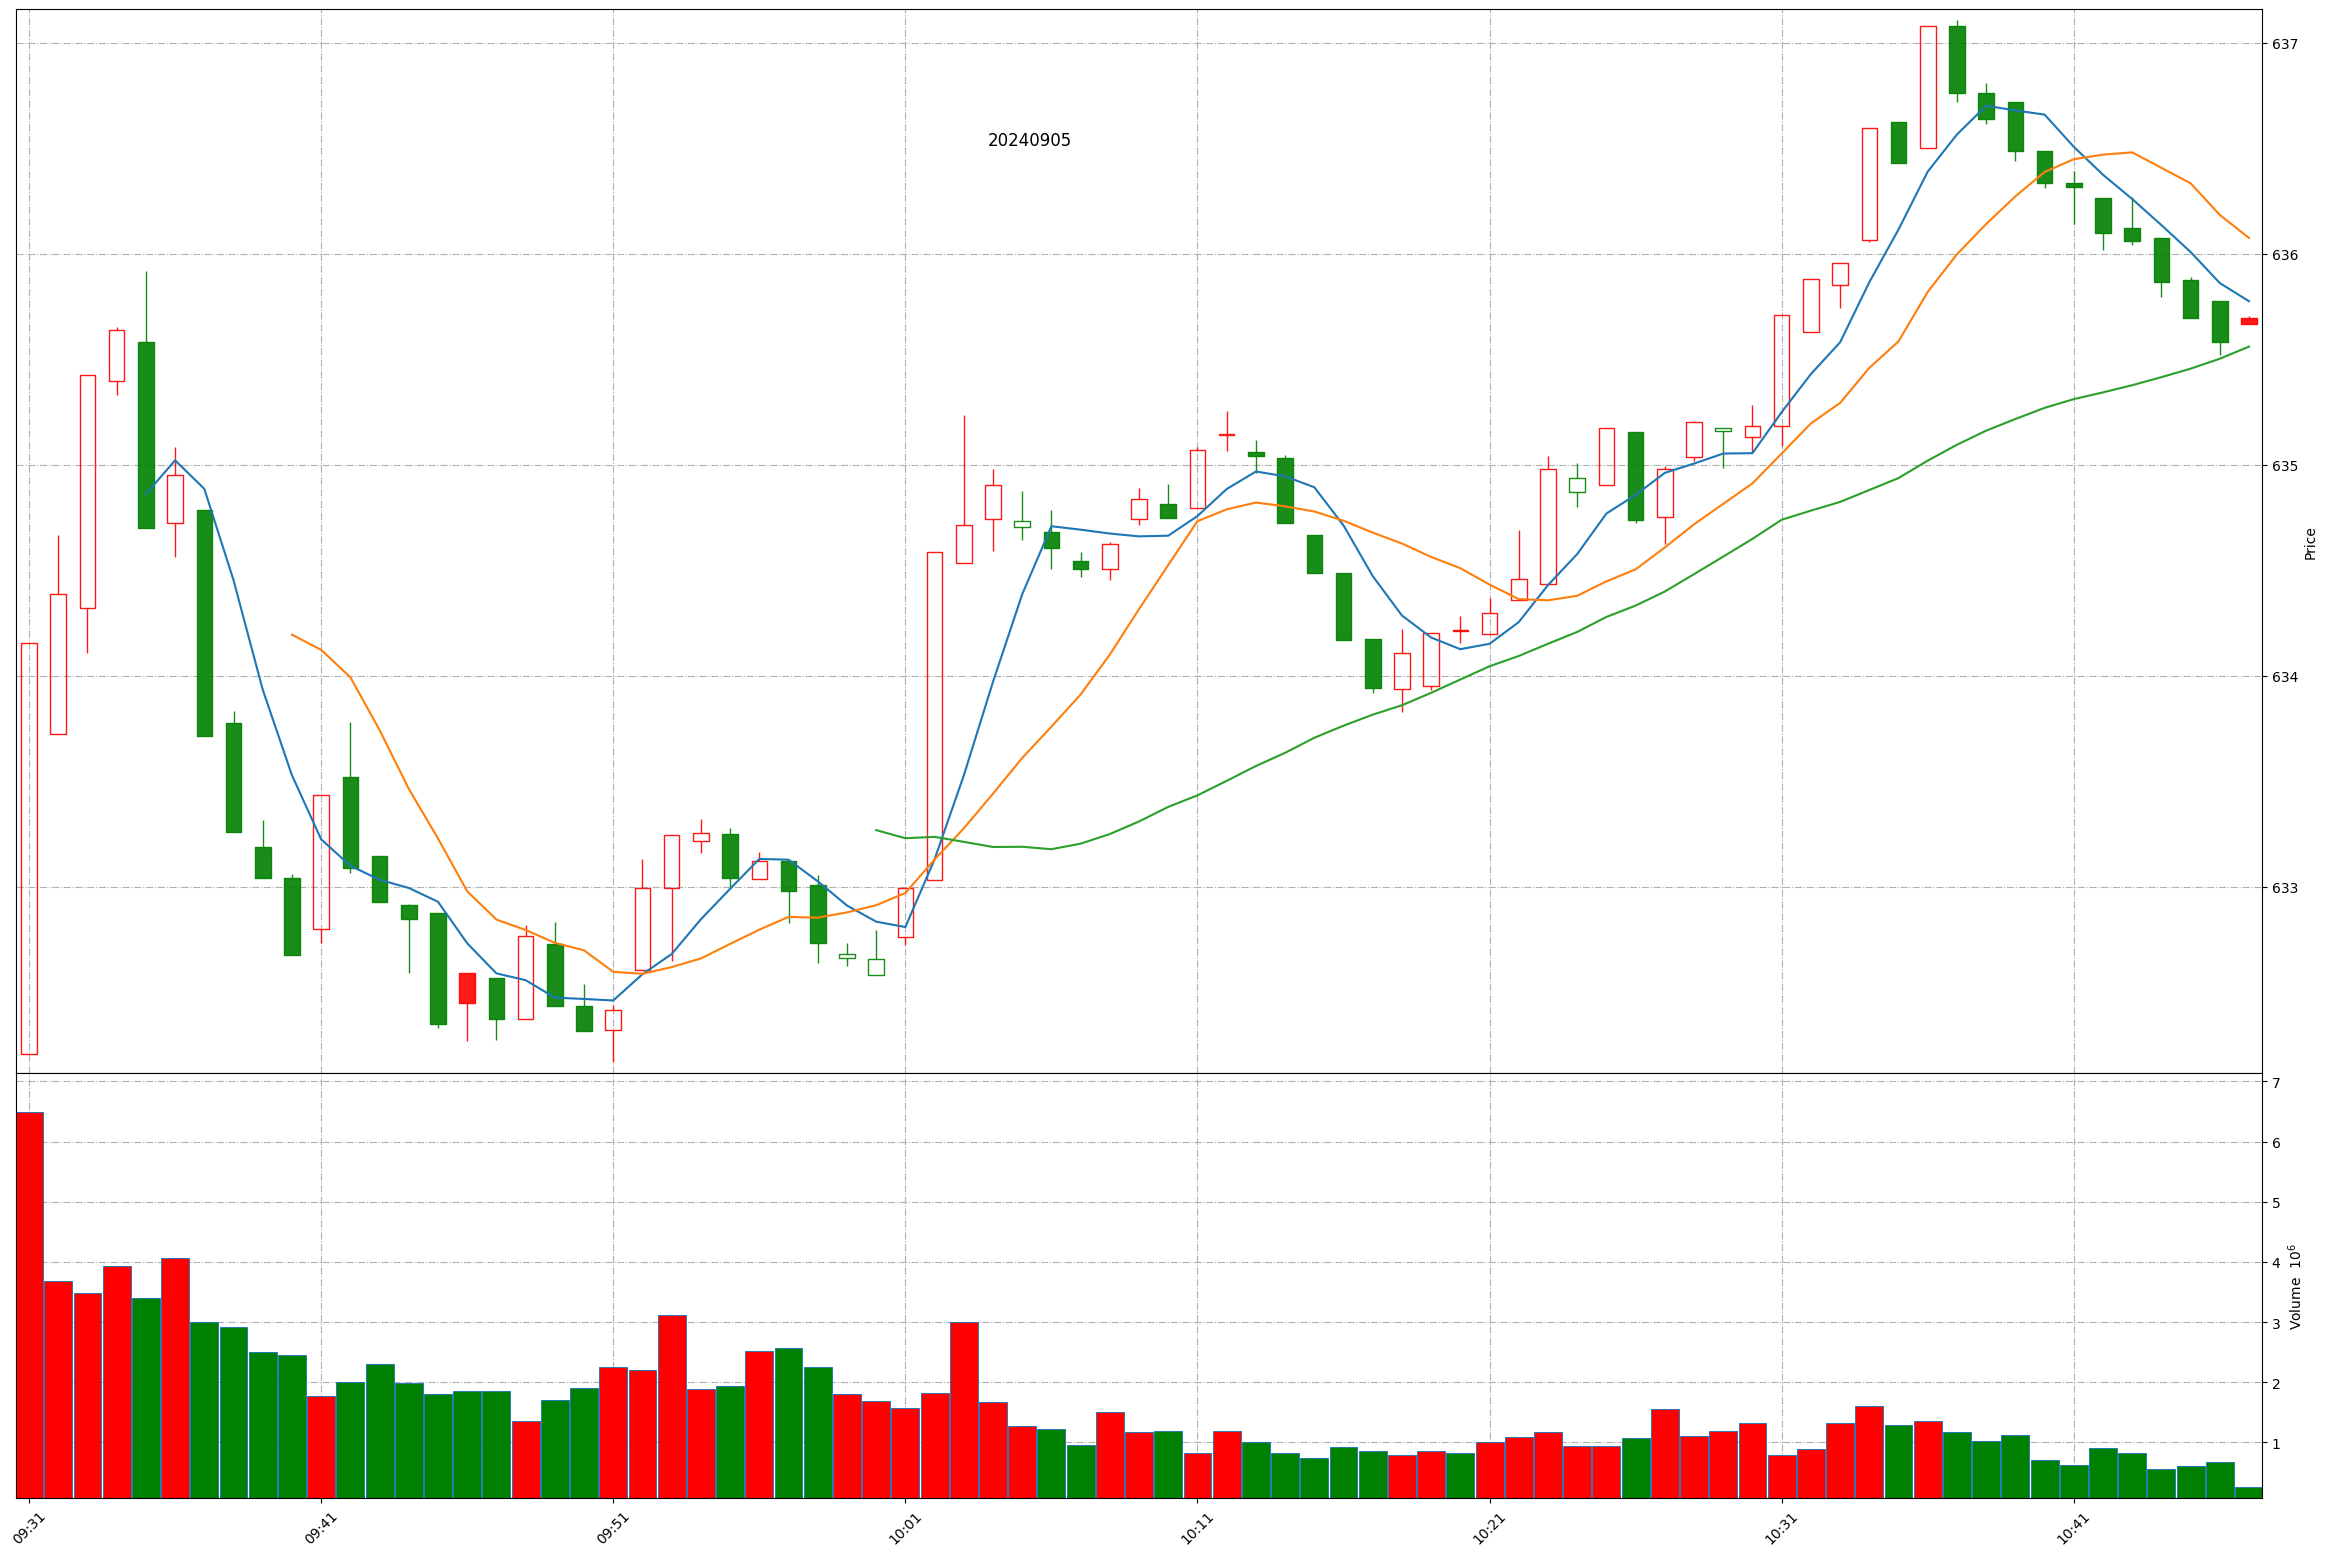
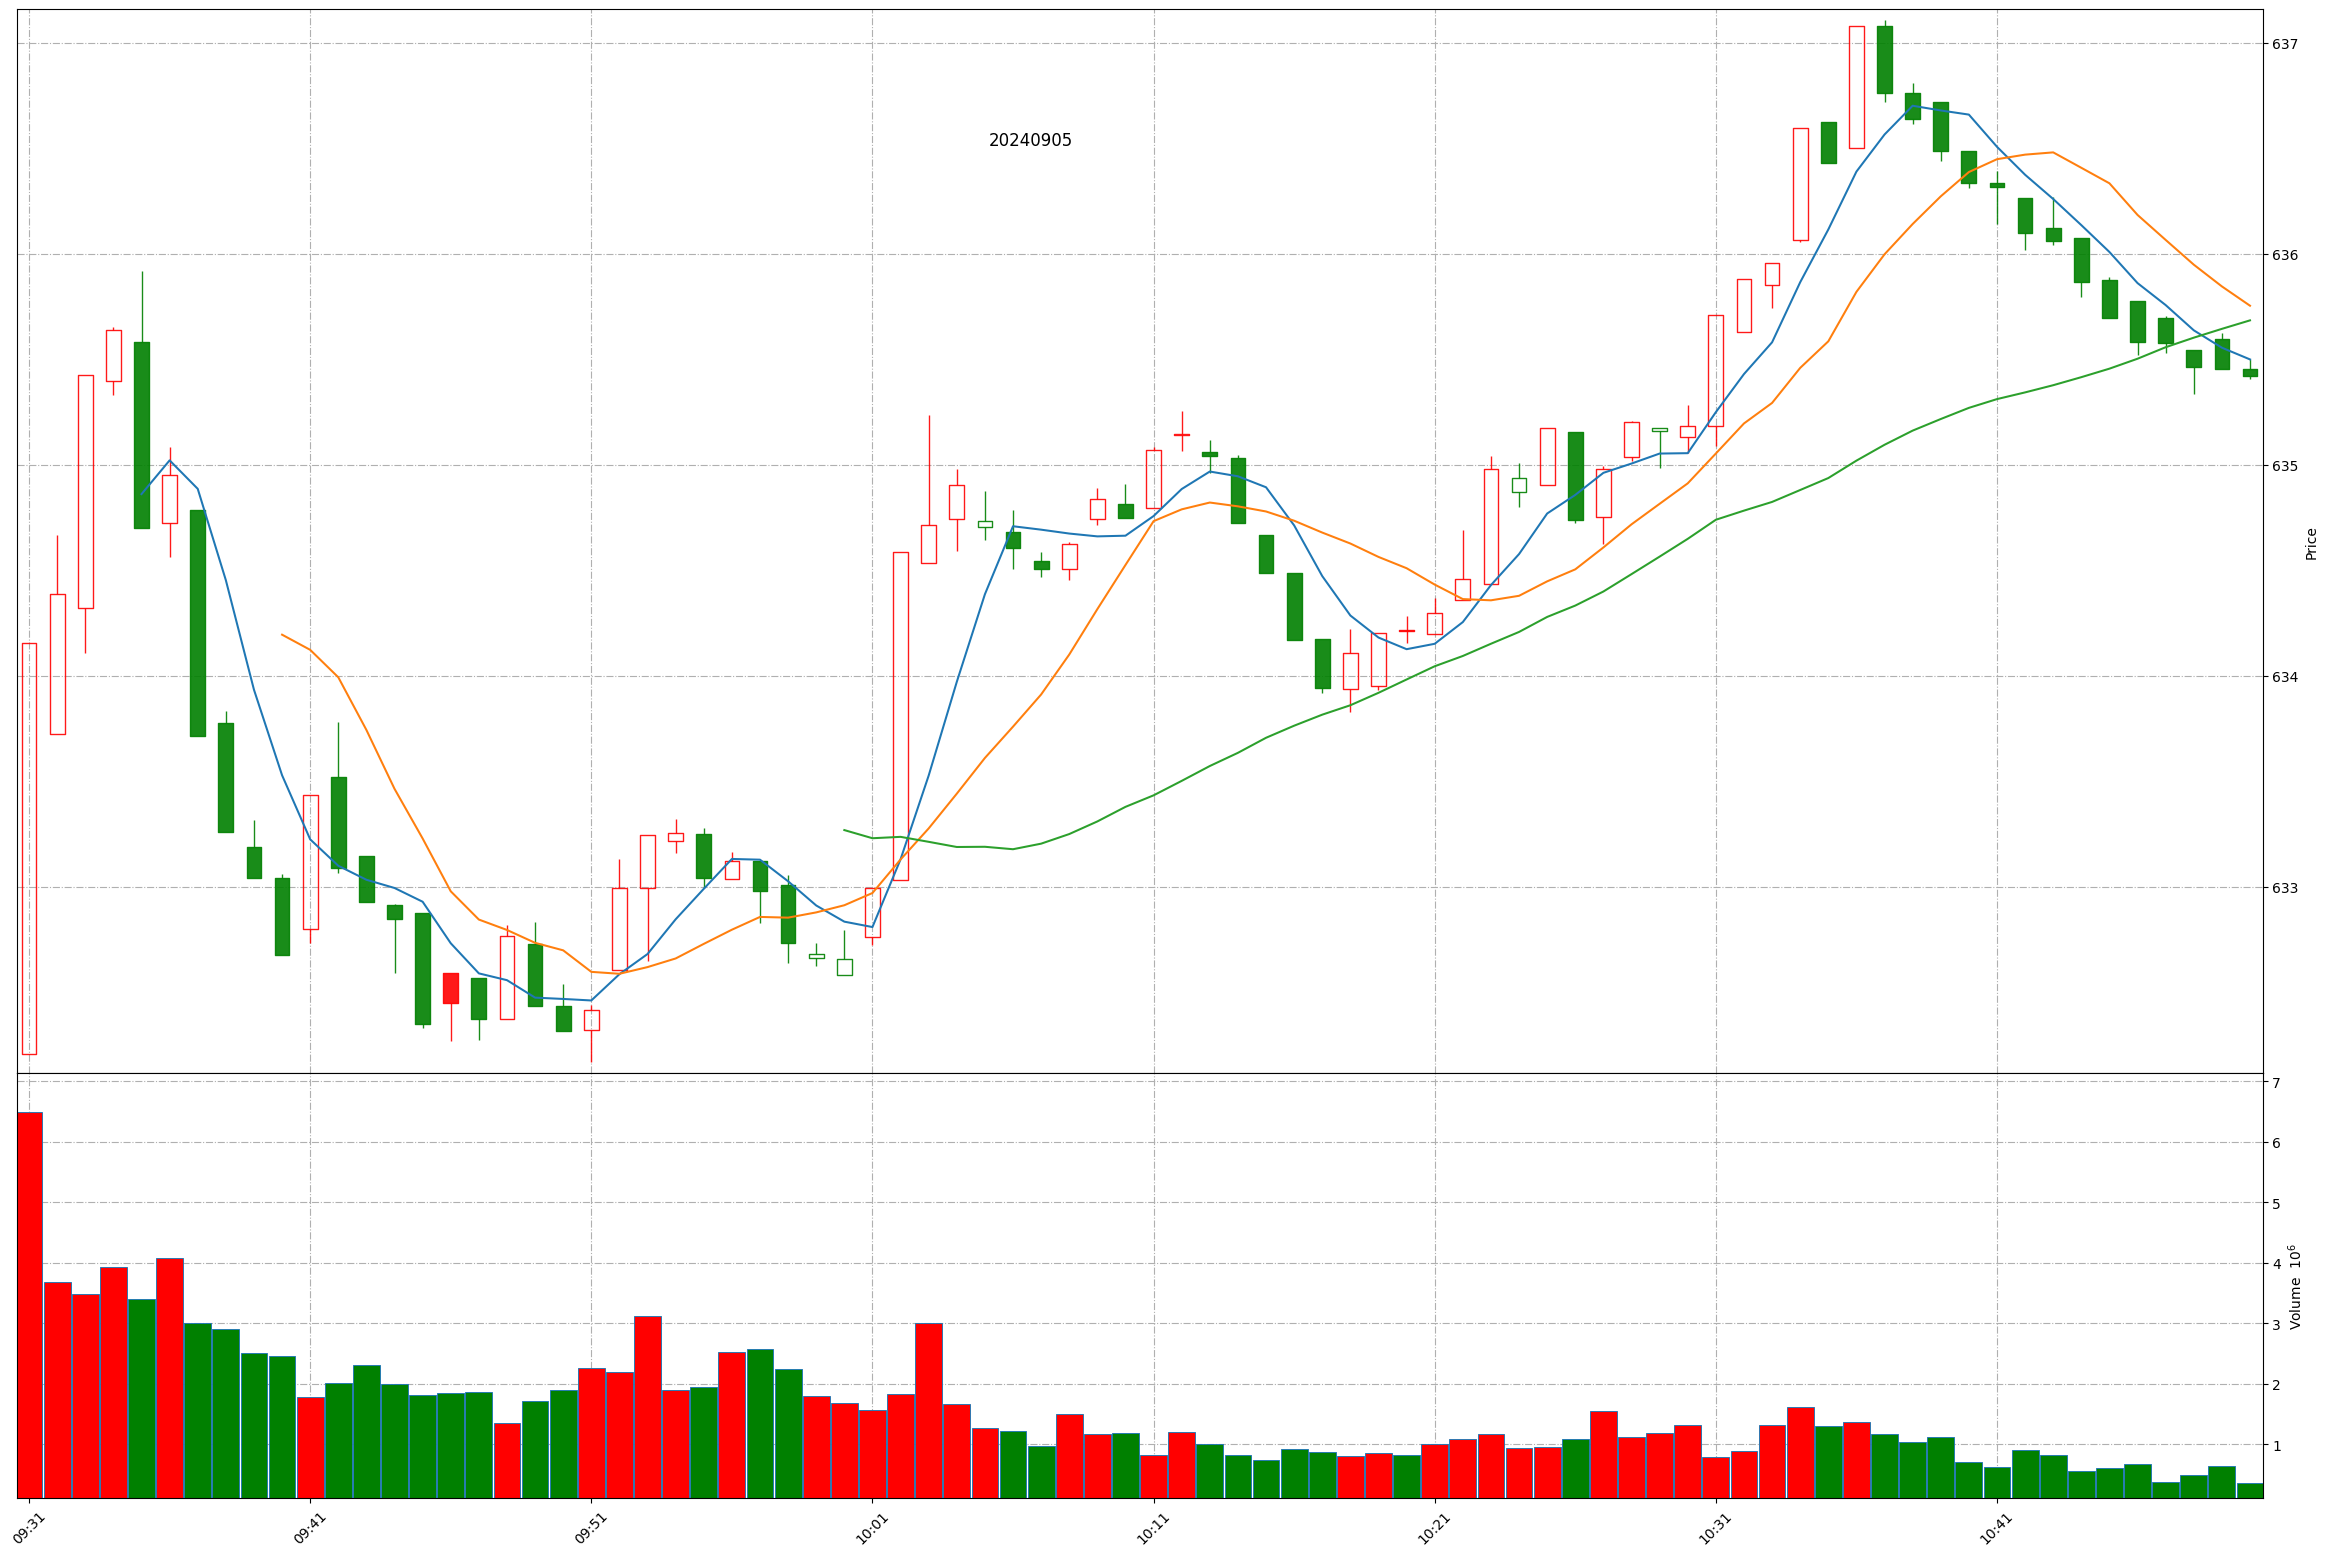
Github action update at 2024-09-05 10:50:07.

diff --git a/README.md b/README.md
@@ -1,11 +1,11 @@
 
 # Daily-A-share-market-quotes 每日 A 股指数（5min 更新）- 20240905
 
-### 上证指数 20240905 10:46
+### 上证指数 20240905 10:50
 ![](./fig/2024/9/20240905-sh000001.png)
 
-### 深证成指 20240905 10:46
+### 深证成指 20240905 10:50
 ![](./fig/2024/9/20240905-sz399001.png)
 
-### 北证50 20240905 10:46
+### 北证50 20240905 10:50
 ![](./fig/2024/9/20240905-bj899050.png)
